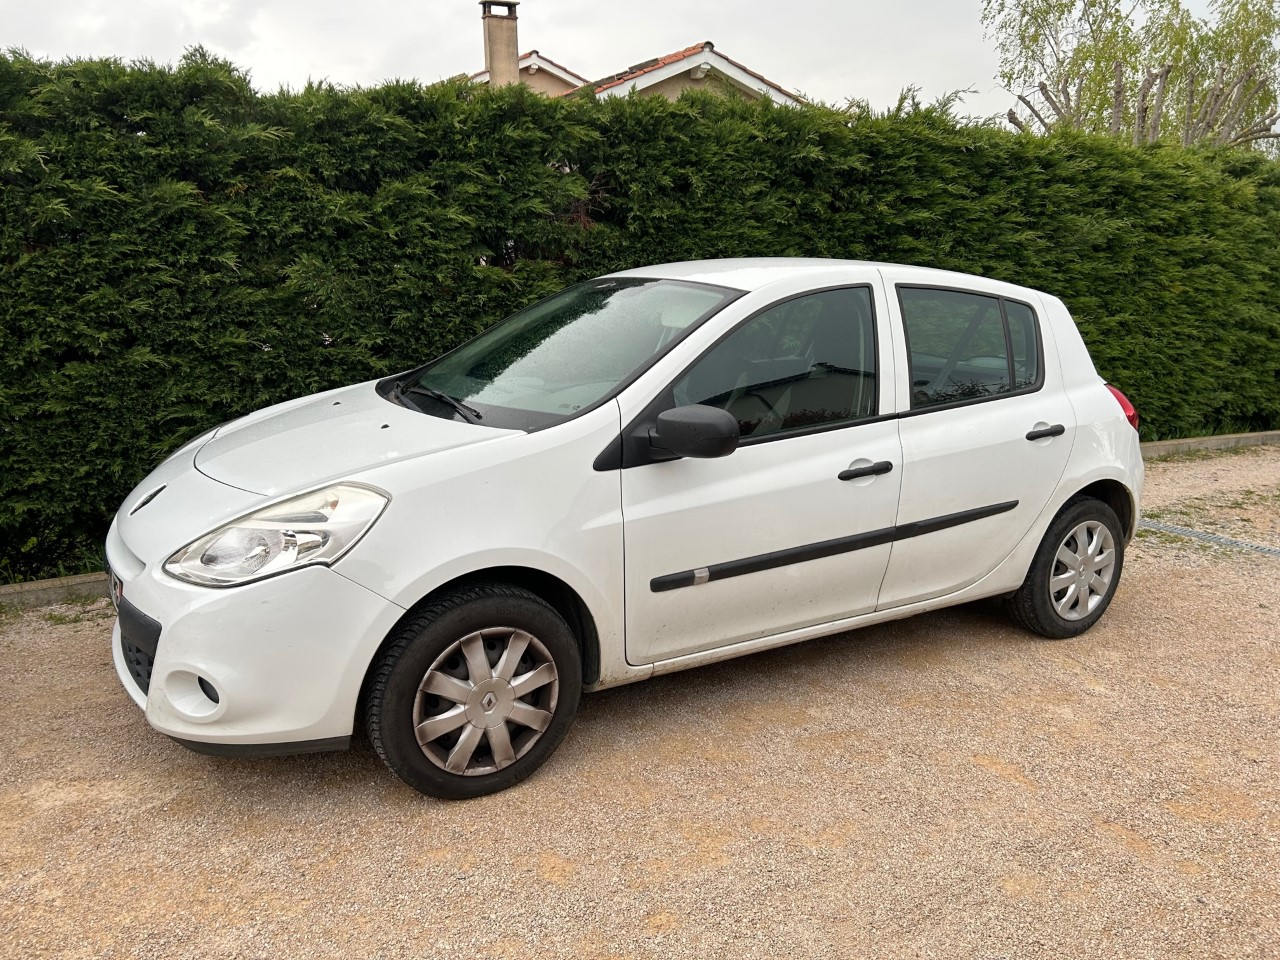
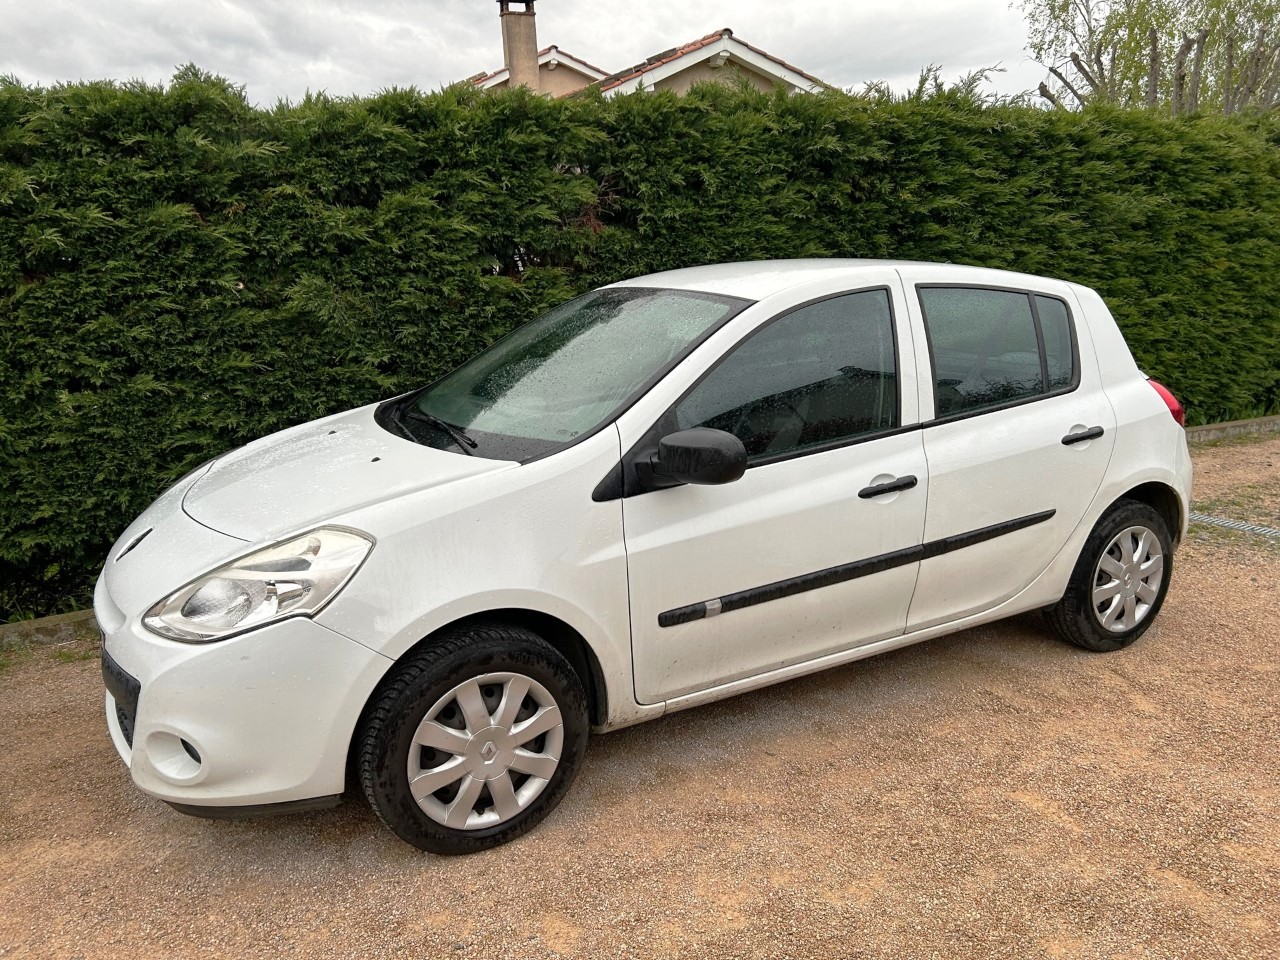
maj prix et pics

diff --git a/content/post/20230413_clio3blanche_2012/index.md b/content/post/20230413_clio3blanche_2012/index.md
@@ -14,7 +14,7 @@ agaz = "essence"
 aboite = "manuelle"
 apuissance= "75 CV"
 acouleur = "blanche"
-prix="6300"
+prix="6400"
 
 +++
 
